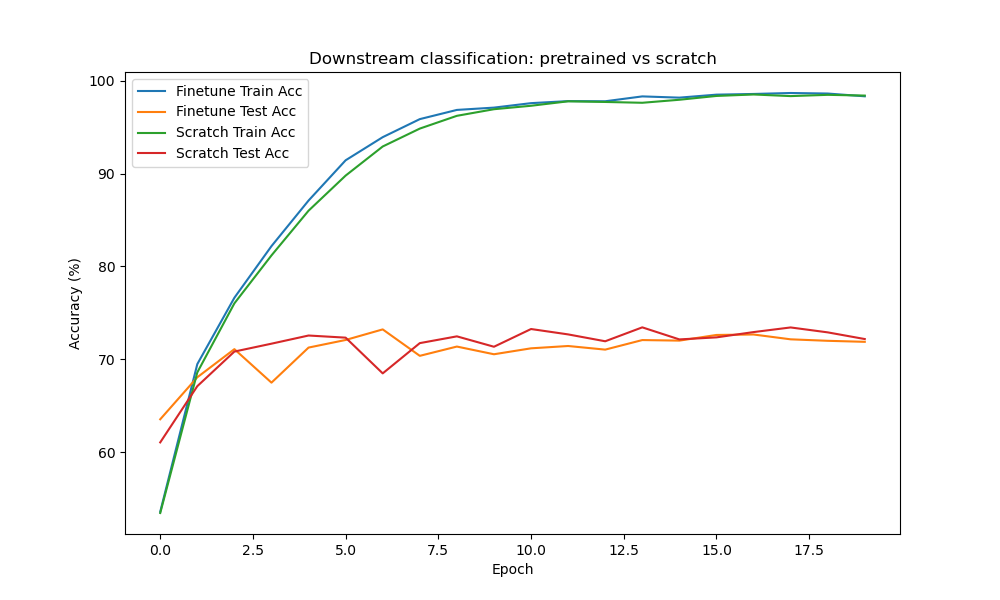
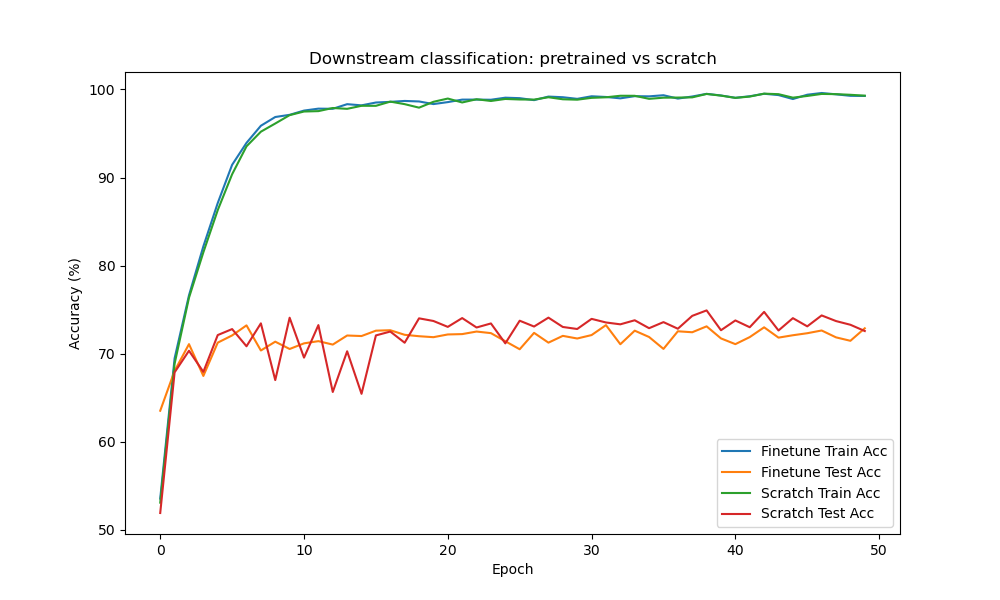
ex1 step2 image

diff --git a/assignment_2/ex1/train_downstream.py b/assignment_2/ex1/train_downstream.py
@@ -86,7 +86,7 @@ model_finetune = DownstreamClassifier(
 criterion_cls = nn.CrossEntropyLoss()
 optimizer_finetune = optim.Adam(model_finetune.parameters(), lr=1e-3)
 
-num_epochs = 20
+num_epochs = 50
 train_accs_finetune, test_accs_finetune = [], []
 
 for epoch in range(num_epochs):
